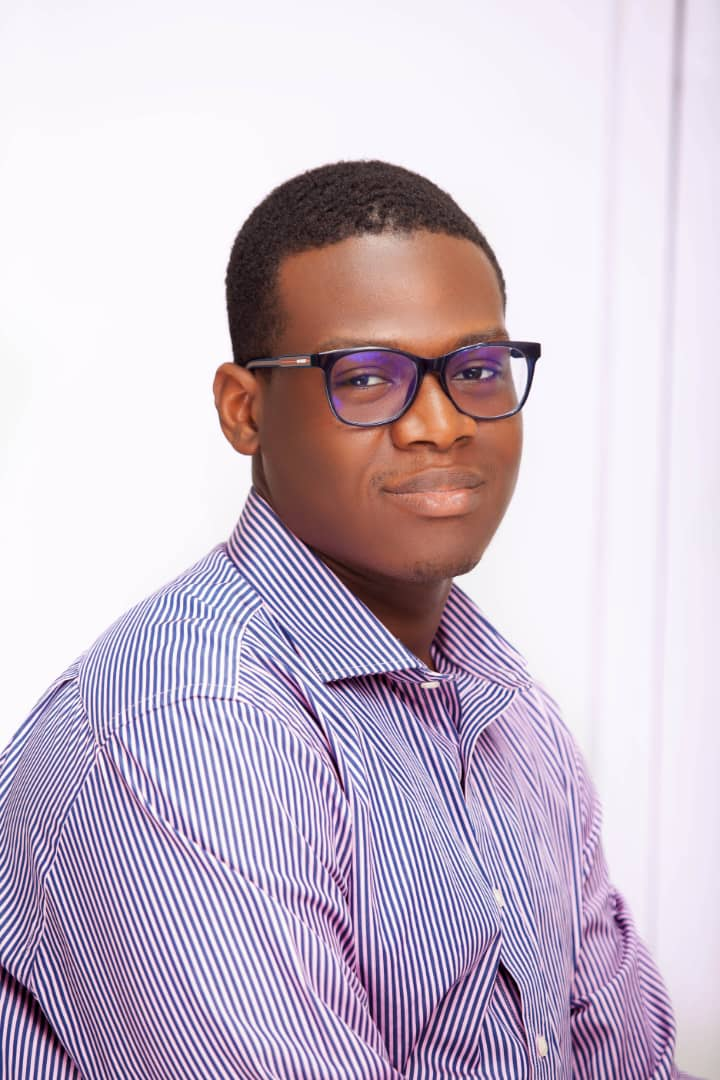
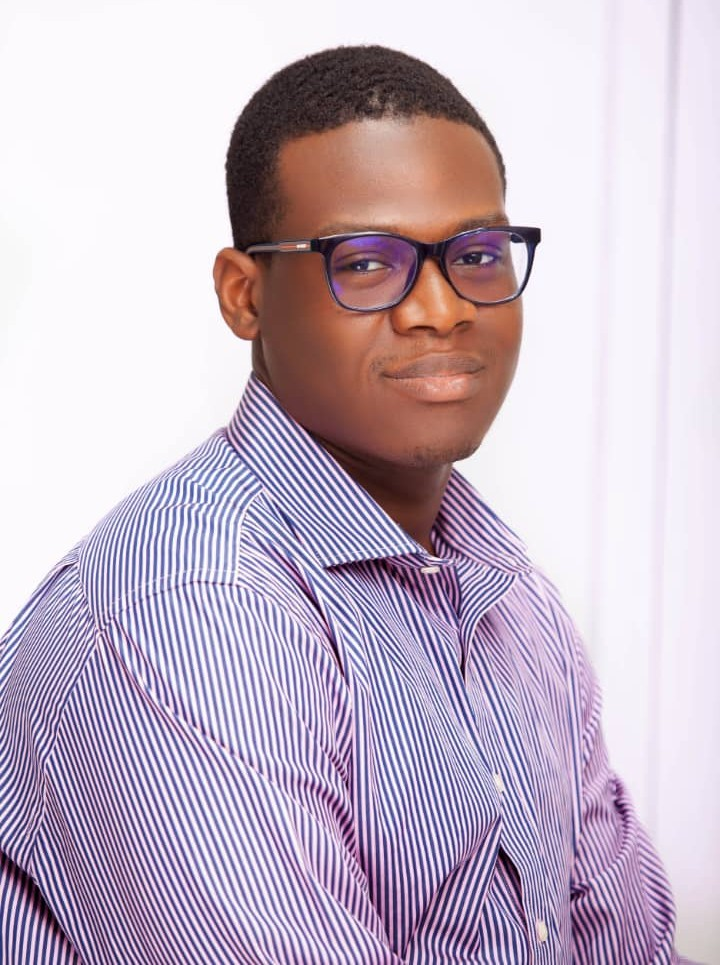
Update commit

diff --git a/app/components/About.js b/app/components/About.js
@@ -14,9 +14,10 @@ const About = () => {
 
         {/* Description */}
         <p className="text-lg md:text-xl text-gray-400 mt-6 leading-relaxed">
-          I am interested in learning all things that can further enhance my skills to be able to break free from the constraints
-          of society and learn to live and be happy, all while spreading joy and help make the world a better place.
-        </p>
+      I am a Ghanaian Electrical and Electronics Engineering student at Academic City University with a passion for innovation and problem-solving.
+       Over the past three years, I have gained hands-on experience in assembling and disassembling electrical components, and I have a solid understanding of the core concepts in my field.
+        My goal is to use my skills to create impactful solutions that improve lives and make the world a better place.
+</p>
         
         {/* Skills Section */}
         <div className="mt-6">

diff --git a/app/components/Navbar.js b/app/components/Navbar.js
@@ -1,14 +1,20 @@
 import Link from 'next/link';
-import styles from '../styles/Navbar.module.css';
+import styles from './Navbar.module.css';
 
 export default function Navbar() {
   return (
     <nav className={styles.nav}>
-      <ul>
-        <li><Link href="/">Home</Link></li>
-        <li><Link href="/about">About</Link></li>
-        <li><Link href="/contact">Contact</Link></li>
-      </ul>
+      <div className={styles.container}>
+        <div className={styles.logo}>
+          <Link href="/">My Portfolio</Link>
+        </div>
+        <ul className={styles.menu}>
+          <li><Link href="/">Home</Link></li>
+          <li><Link href="/about">About</Link></li>
+          <li><Link href="/projects">Projects</Link></li>
+          <li><Link href="/contact">Contact</Link></li>
+        </ul>
+      </div>
     </nav>
-  );
-} 
+  );
+}

diff --git a/app/components/Hero.js b/app/components/Hero.js
@@ -16,9 +16,10 @@ const Hero = () => {
 
       {/* Description */}
       <p className="text-lg md:text-xl mt-4 max-w-2xl text-gray-300 leading-relaxed">
-        A student who is currently pursuing Electrical and Electronics Engineering in hopes of changing the world one step at a time. 
-        I love tackling interesting projects that grow my repertoire of skills and teach me more of this world we live in.
-      </p>
+    A passionate Electrical and Electronics Engineering student at Academic City University, dedicated to solving real-world problems 
+    through innovation and technology. 
+    I thrive on challenging projects that push my boundaries and expand my skill set.
+</p>
 
       {/* CTA Button */}
     

diff --git a/app/layout.js b/app/layout.js
@@ -1,29 +1,17 @@
-import { Geist, Geist_Mono } from "next/font/google";
 import "./globals.css";
 
-const geistSans = Geist({
-  variable: "--font-geist-sans",
-  subsets: ["latin"],
-});
-
-const geistMono = Geist_Mono({
-  variable: "--font-geist-mono",
-  subsets: ["latin"],
-});
-
 export const metadata = {
-  title: "Create Next App",
-  description: "Generated by create next app",
+  title: "myproject - Makafuis",
+  description: "",
 };
 
 export default function RootLayout({ children }) {
   return (
     <html lang="en">
-      <body
-        className={`${geistSans.variable} ${geistMono.variable} antialiased`}
-      >
+      <body>
         {children}
       </body>
     </html>
   );
 }
+layout.js

diff --git a/app/components/Image.js b/app/components/Image.js
@@ -7,8 +7,8 @@ const Portfolio = () => {
       <Image 
         src="/profile.jpg" 
         alt="Makafui Quist" 
-        width={300} 
-        height={300} 
+        width={720} 
+        height={776} 
         className="profile-pic" 
       />
     </div>
